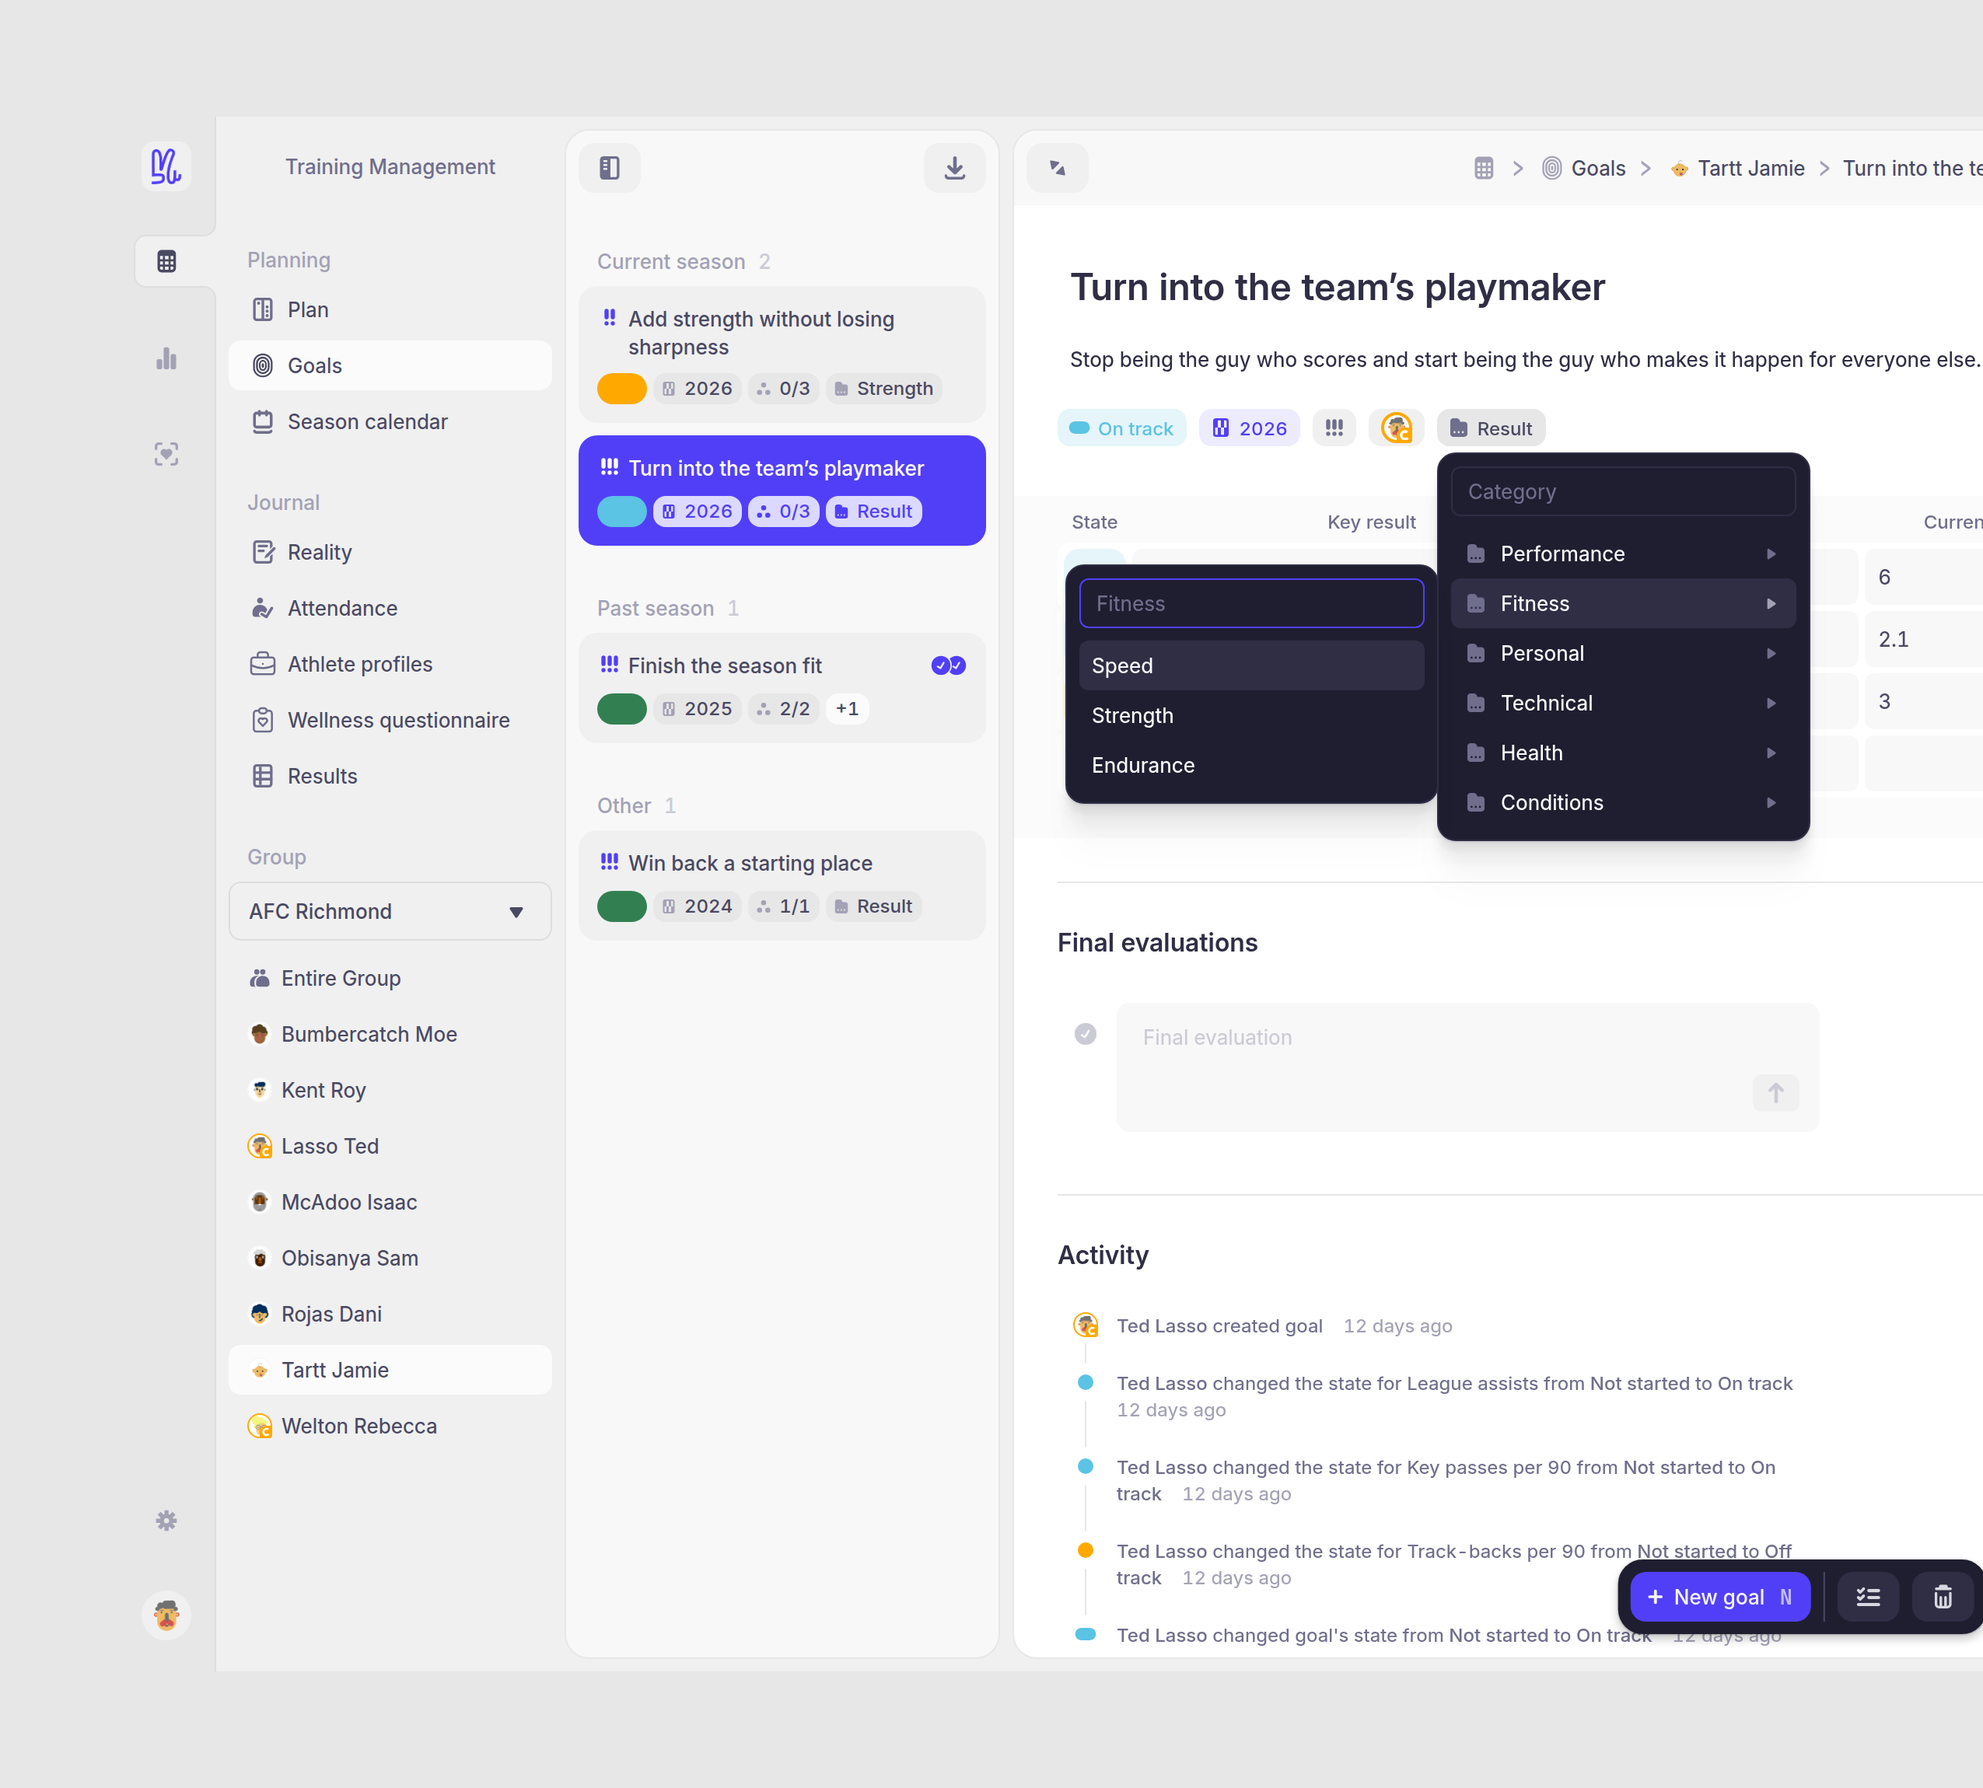
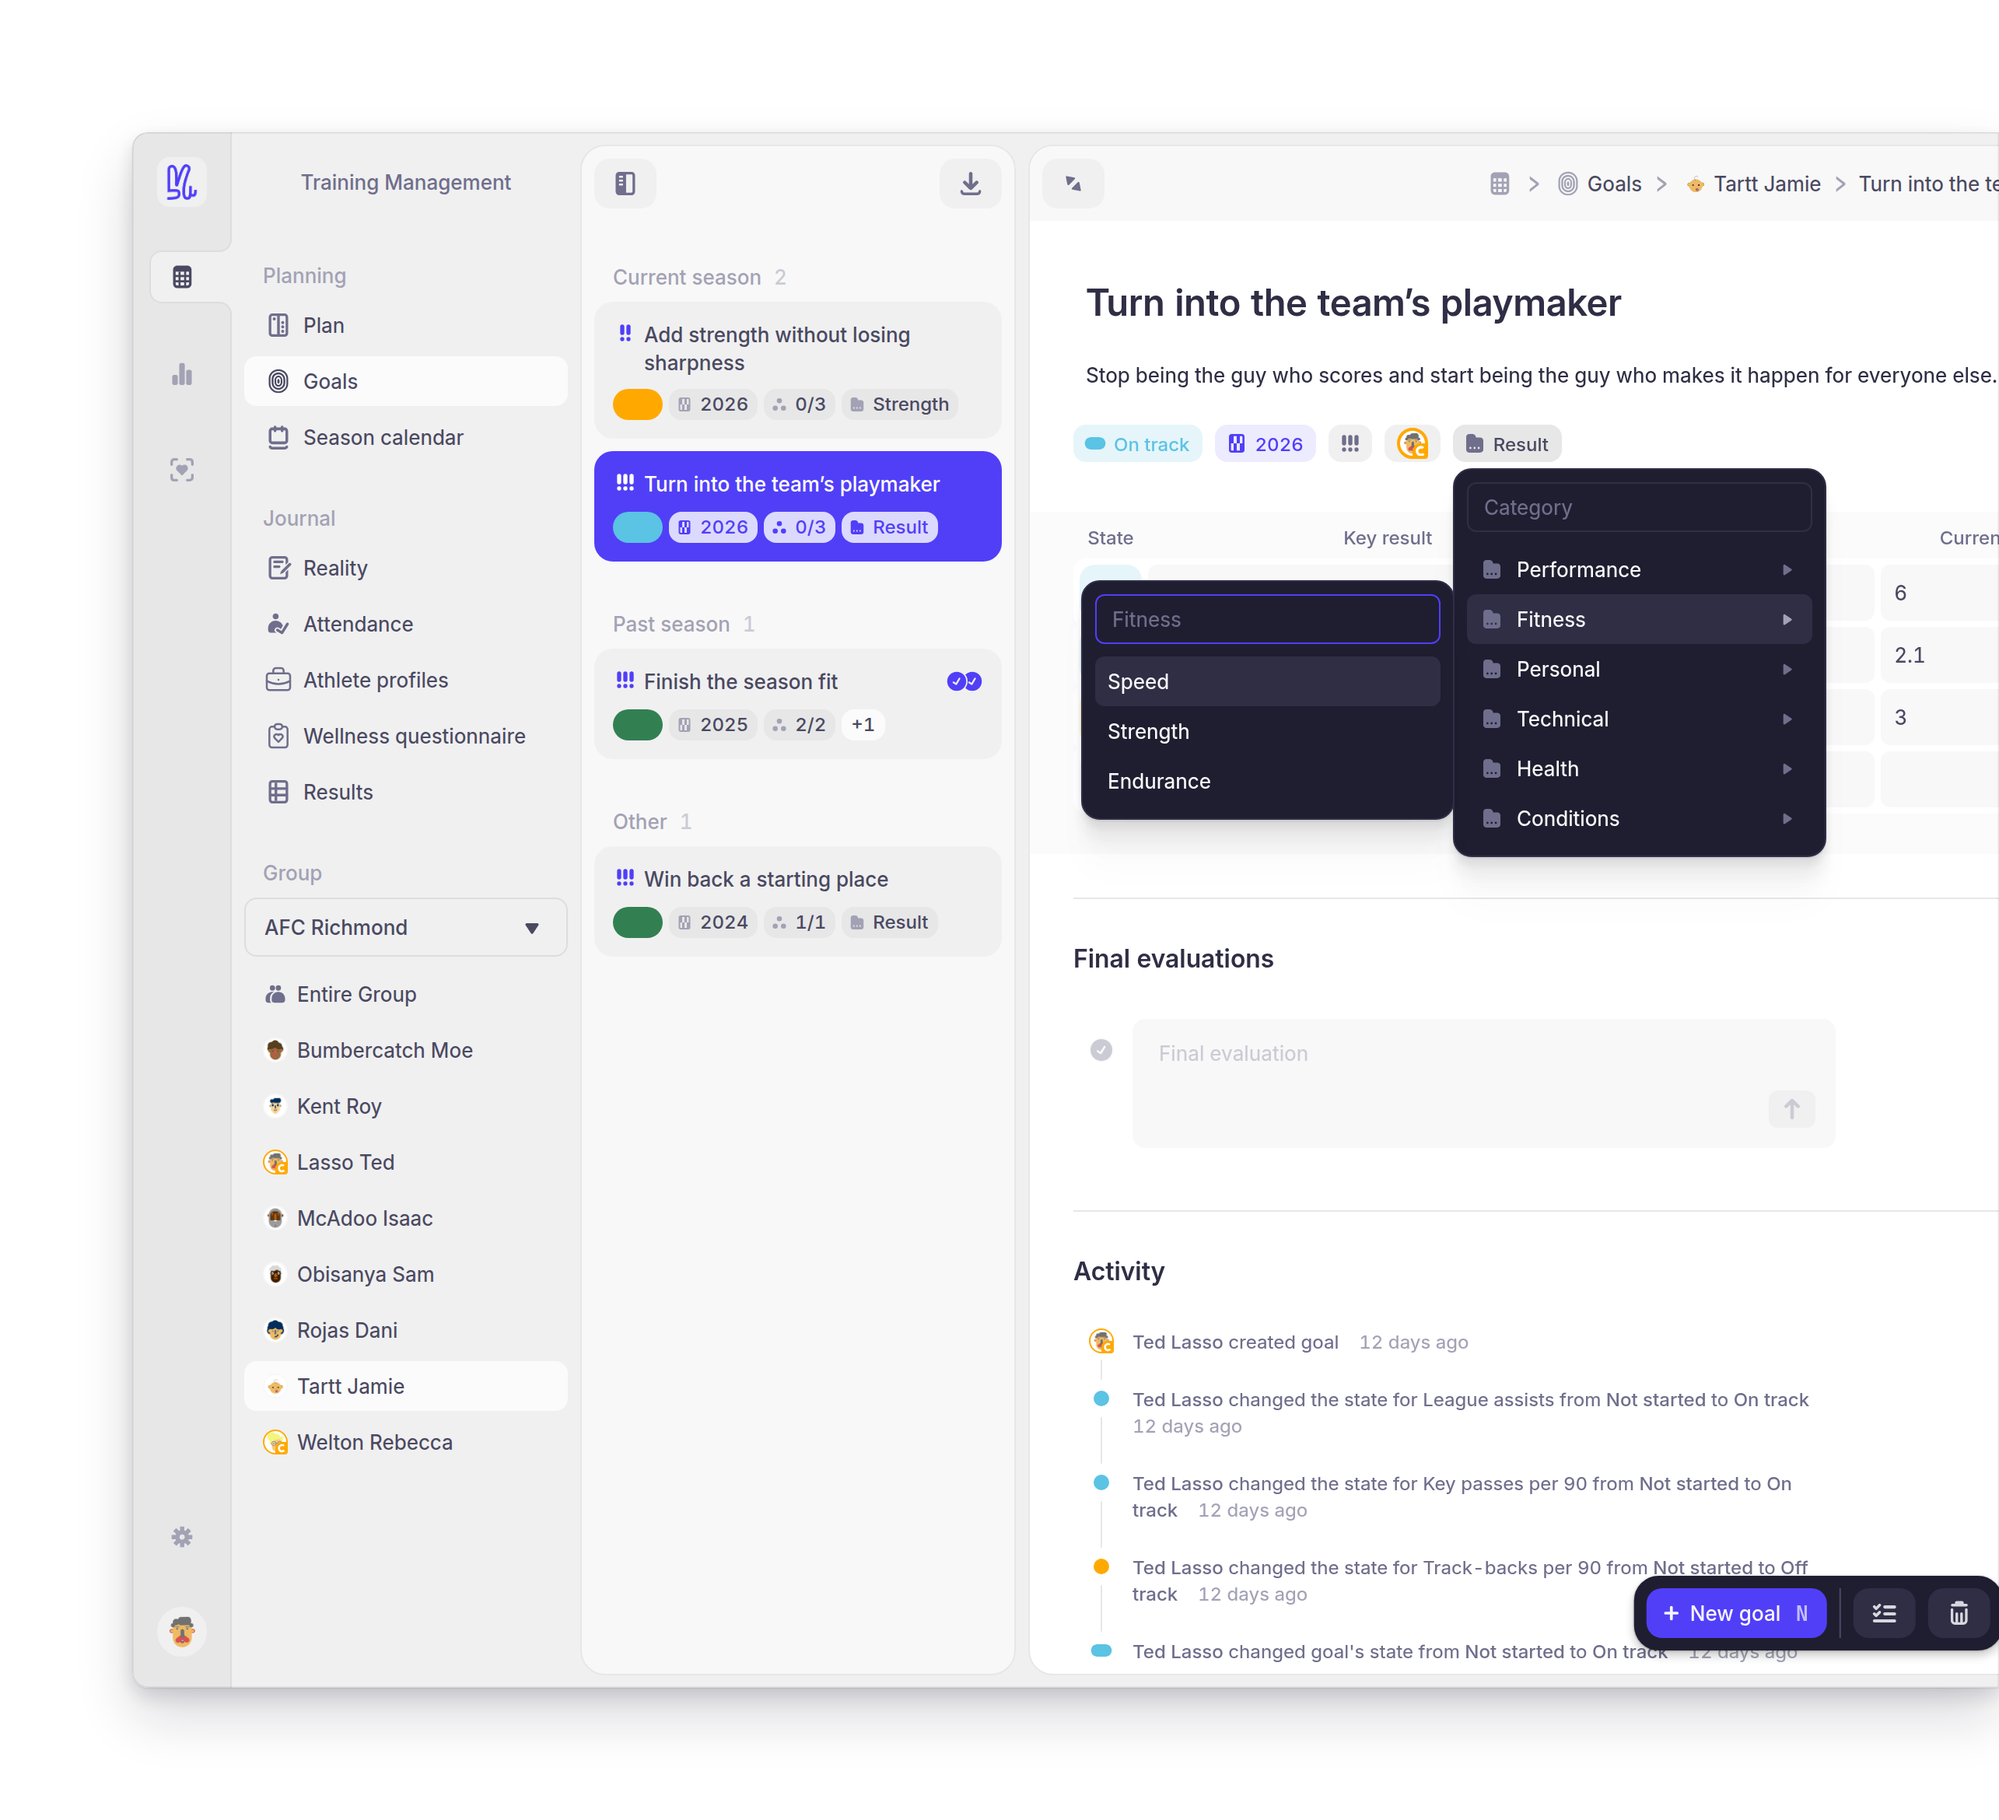
Goals figures: window treatment on transparency, backdrop from the theme
The figures now look like an app window sitting in space rather than a
rectangle pasted down — the thing every reference had in common.

- Each PNG carries only the window: a macOS-sized corner (20px at 2x, so
  ~10 CSS px — the earlier 22px was set at preview scale and worked out
  far larger, which is why it ate the UI), a 1.5px hairline, and a layered
  shadow, all rendered onto transparency.
- The backdrop moved out of the image and into .ym-frame-media, so one
  asset serves both themes: Paper (#f1f1f4) in light, Ink (near-black with
  an indigo glow) in dark. Retuning the treatment no longer means
  re-rendering eight images.
- <Frame variant="marketing"> puts the lead figure on full brand indigo,
  so the page's opening image is also the one to reach for in a changelog
  post or an announcement.
- Corners are rounded only where two window edges meet; a cut side stays
  square and bleeds, which is what keeps an anchored crop legible.

Linear's own docs use a single asset per figure rather than light/dark
pairs — doing the backdrop in CSS gets both without doubling the work.

Claude-Session: https://claude.ai/code/session_01BcTgTxjwzSdWmEF7MFmzuM

diff --git a/site/components/mdx/mdx.css b/site/components/mdx/mdx.css
@@ -388,6 +388,30 @@
   background: var(--ym-bg-subtle);
   box-shadow: var(--ym-shadow-card);
 }
+/* ---- The backdrop a product screenshot sits on ----
+   The PNG carries only the app window — its corner, hairline and shadow, on
+   transparency — so the colour behind it is ours to set here. That keeps one
+   asset per figure serving both themes, and lets the treatment be retuned
+   without re-rendering a single image.
+     light — "Paper": flat near-white, quiet enough to disappear
+     dark  — "Ink":   near-black with an indigo glow, so light UI lifts off it */
+.ym-frame-media:has(img) {
+  padding: 0;
+  background: #f1f1f4;
+  border-color: rgba(31, 30, 49, 0.08);
+}
+.dark .ym-frame-media:has(img) {
+  background:
+    radial-gradient(120% 90% at 30% 0%, #2e2a52 0%, #1f1e31 55%, #151420 100%),
+    #1f1e31;
+  border-color: rgba(255, 255, 255, 0.09);
+}
+/* The lead figure doubles as the announcement image: full brand indigo. */
+.ym-frame-media[data-variant='marketing'],
+.dark .ym-frame-media[data-variant='marketing'] {
+  background: linear-gradient(158deg, #5a49f9 0%, #3b02d6 100%);
+  border-color: rgba(255, 255, 255, 0.14);
+}
 .ym-frame-media img,
 .ym-frame-media video {
   display: block;

diff --git a/site/components/mdx/Frame.tsx b/site/components/mdx/Frame.tsx
@@ -31,6 +31,7 @@ function findImageProps(node: ReactNode): { src: string; alt: string } | null {
 export function Frame({
   caption,
   bleed,
+  variant,
   children,
 }: {
   caption?: ReactNode;
@@ -41,13 +42,18 @@ export function Frame({
    * of floating inset on all four sides.
    */
   bleed?: string;
+  /**
+   * "marketing" gives the lead figure the brand-indigo backdrop — the version
+   * of the image that also works for a changelog post or an announcement.
+   */
+  variant?: 'marketing';
   children?: ReactNode;
 }) {
   const image = findImageProps(children);
 
   return (
     <figure className="ym-frame">
-      <div className="ym-frame-media" data-bleed={bleed}>
+      <div className="ym-frame-media" data-bleed={bleed} data-variant={variant}>
         {image ? <ZoomImage src={image.src} alt={image.alt} /> : children}
       </div>
       {caption ? <figcaption className="ym-frame-caption">{caption}</figcaption> : null}

diff --git a/docs-guide/visuals/demo-cast.md b/docs-guide/visuals/demo-cast.md
@@ -66,10 +66,22 @@ announcements over the UI; they land in the figure and they swallow the first cl
 capture script that doesn't dismiss them can also end up on the wrong screen. The capture
 harness clears them before every shot.
 
-**Leave a margin of the app's page colour on the anchored sides.** A crop that runs flush to
-the window edge doesn't read as anchored — it just looks cut. Pad the sides that ARE the
-window's own edge (~150px at 2x) with the app's background colour, sampled from the capture
-itself so there's no seam; the sides that cut through content get no padding and bleed instead.
+**The PNG carries the window; the docs frame carries the backdrop.** A figure is exported as
+the app window on **transparency** — its macOS-sized corner (20px at 2x ≈ 10 CSS px; bigger
+starts eating the UI), a 1.5px hairline, a layered shadow, and ~170px of transparent margin on
+the sides that are the window's own edge. The colour behind it comes from CSS in
+`.ym-frame-media`, so one asset serves both themes and the treatment can be retuned without
+re-rendering anything:
+
+| Where | Backdrop |
+|---|---|
+| light | **Paper** — flat `#f1f1f4` |
+| dark | **Ink** — `#1f1e31` with an indigo glow |
+| the lead figure (`<Frame variant="marketing">`) | **Indigo** — `#5a49f9 → #3b02d6`, so the page's opening image doubles as the changelog/announcement shot |
+
+**Round only the real corners.** A corner is rounded when both of its sides are the window's
+own edge; a side that cuts through content stays square and bleeds off the figure. That's what
+keeps an anchored crop reading as a crop rather than a floating card.
 
 **A zoom is anchored to the window, never floating in the middle of it.** Pick one of nine
 positions — top-left · top · top-right · left · center · right · bottom-left · bottom ·
